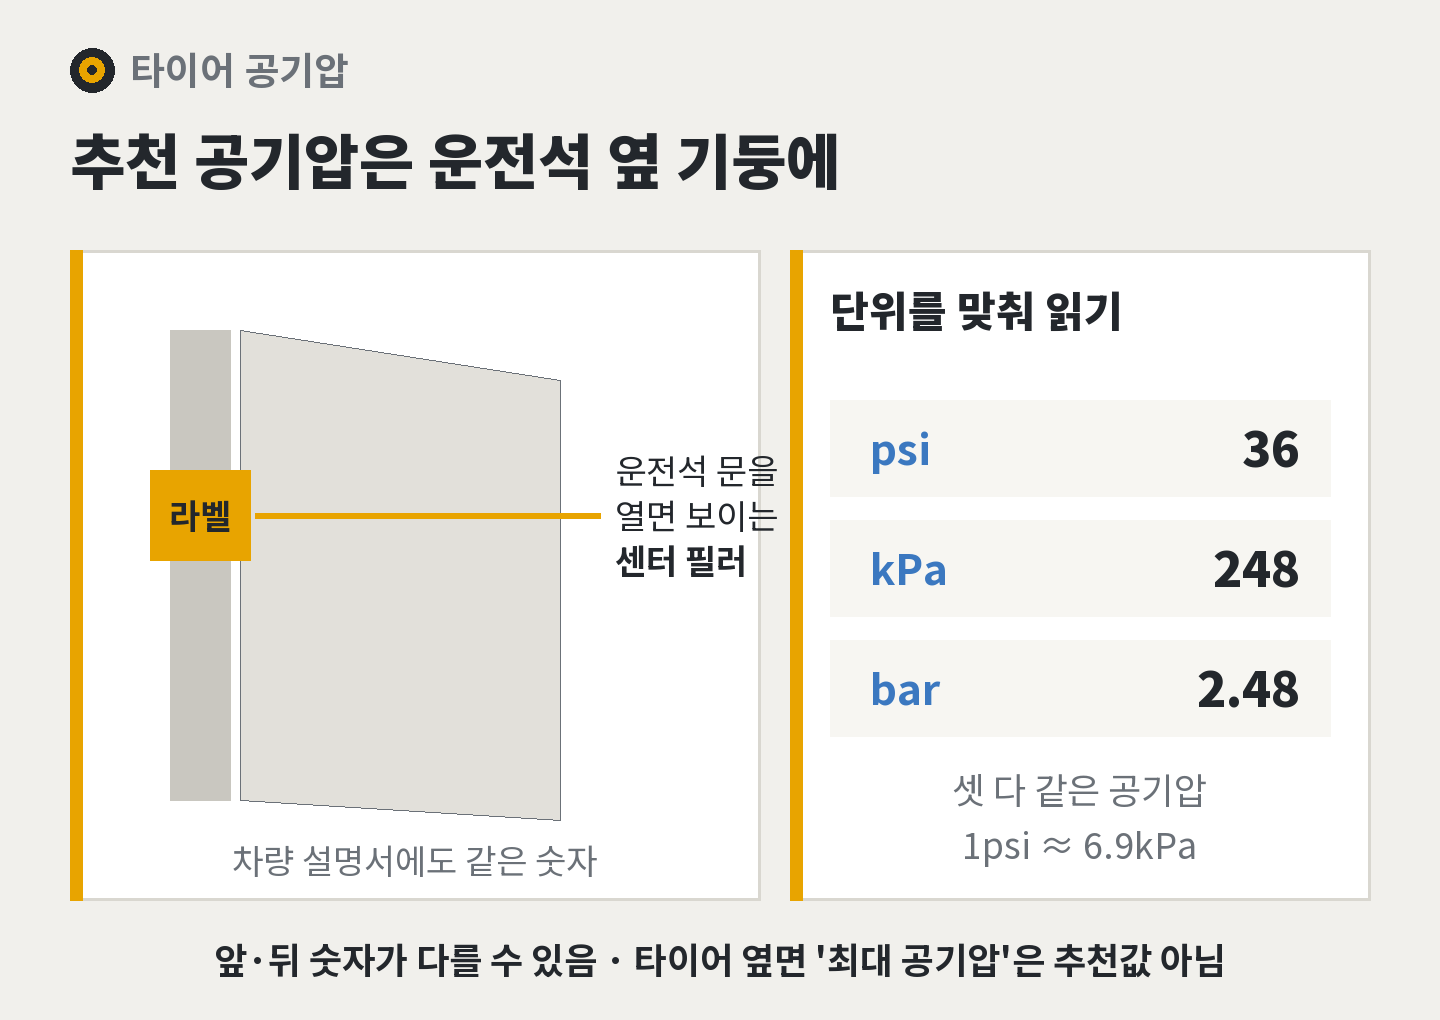
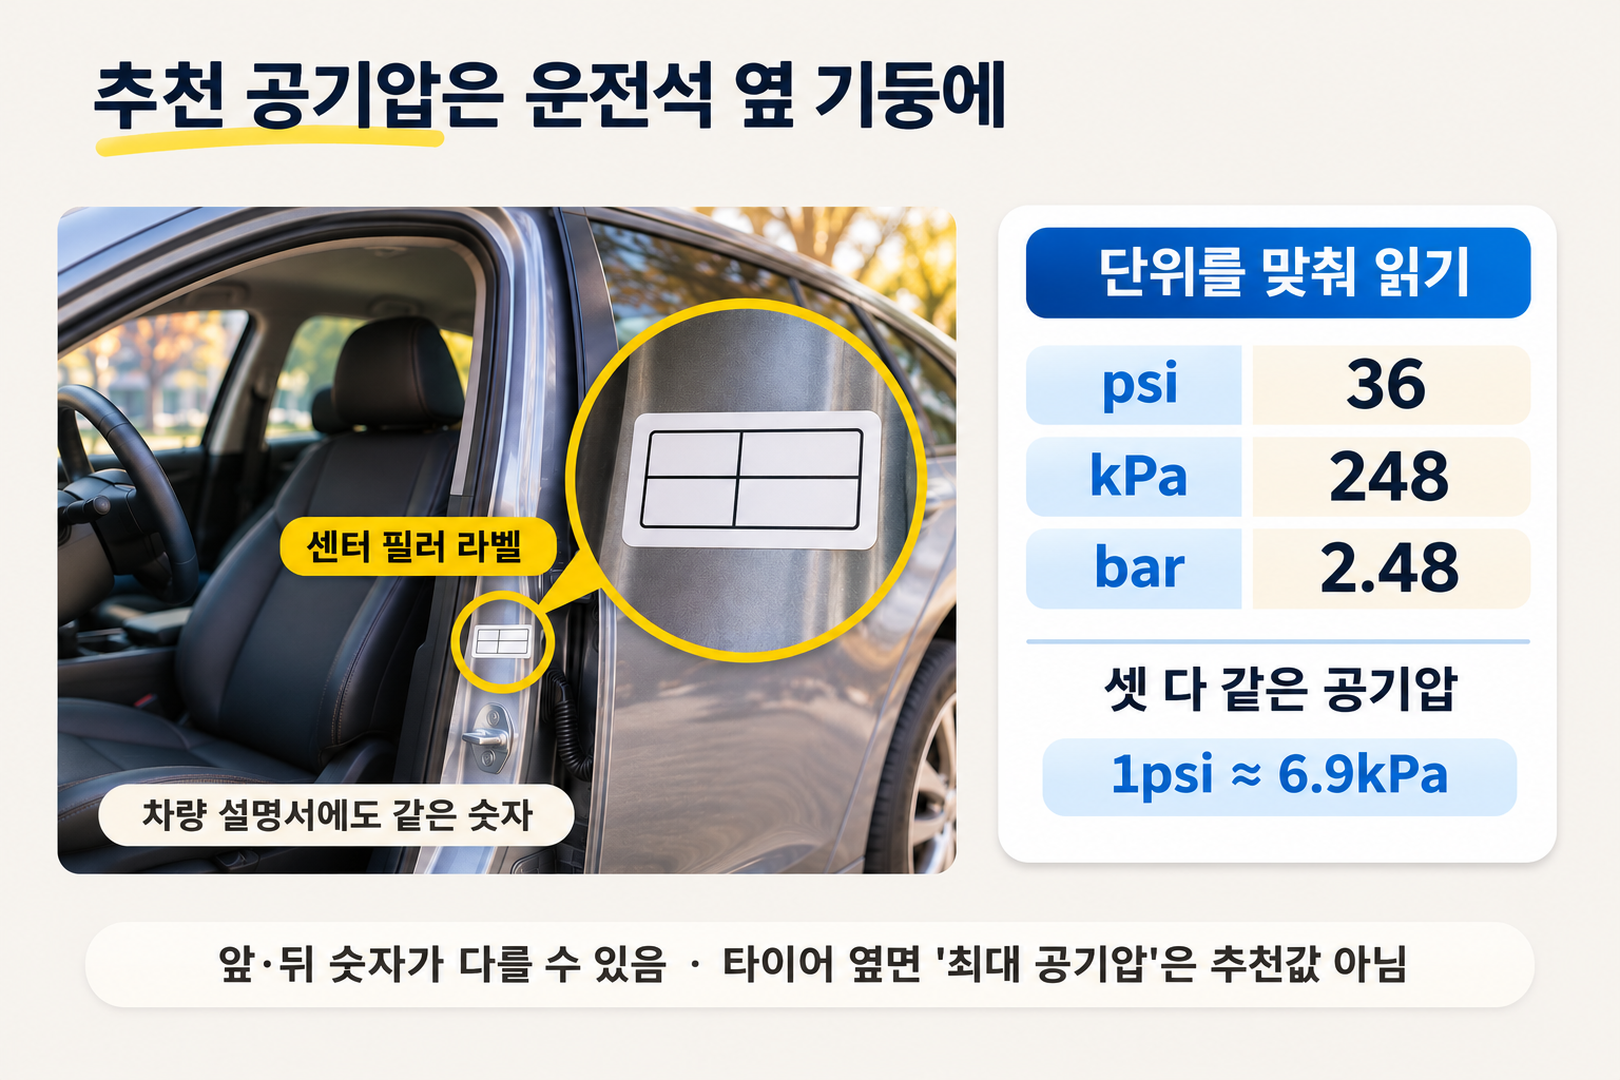
네이버 겨울 타이어 공기압 글 03 그림을 ChatGPT 실사풍 인포그래픽으로 교체

diff --git a/문서/네이버-코딩가이드/20261127_겨울-타이어-공기압/index.html b/문서/네이버-코딩가이드/20261127_겨울-타이어-공기압/index.html
@@ -13,7 +13,7 @@
 디자인: 아스팔트와 도로 표시 느낌 — 따뜻한 연회색 바탕(#f1f0ec)·짙은 숯색 글자(#23272c)·도로 노랑(#e8a400)·찬 기온 파랑(#3b78c0)·회색(#6b7178), 각진 흰 카드와 노란 띠, 왼쪽 위 타이어 아이콘 + '타이어 공기압'(번호 없음). h3 기호 ○, '한 줄로 말하면'만 짙은 노랑.
 - 01-타이틀.png (ChatGPT, 1:1) — 적용(서리 내린 앞바퀴·공기압 게이지·아침 햇살, 글자 정확, 로고·상표 없음, 첫 줄 약 88%라 95%로 줄이고 바깥은 살짝 키운 흐린 같은 그림으로 섞음 → 약 84%·세로 중심 약 48%, 원본 scratchpad/backup/tire-01-original.png. 거울 이음은 펜더·호스가 겹쳐 보여 쓰지 않음)
 - 02-기온과-공기압.png (AI, 가로) — 기온이 내려갈 때 36psi 타이어가 얼마나 내려가는지(계산 예시).
-- 03-적정-공기압-찾기.png (AI, 가로) — 운전석 옆 기둥 라벨 위치와 psi·kPa·bar 단위 맞추기.
+- 03-적정-공기압-찾기.png (ChatGPT 실사풍, 가로 1620×1080) — 운전석 옆 기둥 라벨 위치와 psi·kPa·bar 단위 맞추기. 사용자 요청으로 ChatGPT 실사풍 인포그래픽으로 바꿔 적용(글자 정확, 엠블럼·라벨 글자 없음, 1536×1024 → 1620×1080, 원본 scratchpad/backup/tire-03-original.png, AI 버전 tire-03-ai.png).
 - 04-식었을-때-잴-것.png (AI, 가로) — 차가울 때와 주행 직후의 차이, 뜨거울 때 맞추면 생기는 일.
 - 05-낮을-때-높을-때.png (AI, 가로) — 공기압이 낮을 때와 높을 때 생기는 문제.
 - 06-함께-보면-좋은-글.png (AI 배너)

diff --git a/AGENTS.md b/AGENTS.md
@@ -276,7 +276,7 @@
   - 이미지 6장: AI 02 기온과 공기압(가로 막대)·03 적정 공기압 찾기(라벨 위치 + 단위)·04 식었을 때 잴 것(두 칸)·05 낮을 때·높을 때(두 칸)·06 배너 — 따뜻한 연회색·숯색·도로 노랑·찬 파랑, 각진 카드와 노란 띠, 타이어 아이콘 '타이어 공기압'(번호 없음), 스크립트 scratchpad/tire.py. h3 기호 ○. ChatGPT 01 타이틀('겨울 타이어 공기압 / 얼마나 넣을까?')은 아래처럼 적용. 링크는 슈퍼 엘니뇨(네이버 · 수학·과학 · 11.27)·겨울 설악산(네이버 · 여행·취미·문화 · 11.24).
   - 같은 날 외부 검수 반영: 원리를 '부피가 줄어듦'에서 '부피가 거의 일정한 타이어 안에서 압력이 낮아짐'으로, TPMS 의무 2013.1.1 신규·2015.1.1 기존 모델·일부 제외, 계산 예시 조건(20℃ 36psi → -10℃ 약 30.8psi), 공기 넣는 때를 냉간 기준(3시간·1.6km)으로·데워졌으면 빼지 말고 식은 뒤 재확인, '1~2분 뒤 경고등 꺼짐' 삭제, 2psi 의견은 '제조사 기준 아님'. 매체명·링크와 본문 끝 참고 자료 목록은 사용자 규칙(본문에 출처 목록·언론사 인용 안 함)에 따라 넣지 않고 발행 메모에. **온도와 압력 설명은 '공기 부피가 줄어든다'가 아니라 '부피가 거의 일정한 용기 안에서 압력이 낮아진다'로 쓴다.**
   - 같은 날 이미지 검수 반영: 04 주행 직후 40~42psi·4~6psi·30~32psi를 '36psi 타이어 예시'로 표시. '1.6km 안쪽 저속 주행'의 '저속'과 05 제동 거리 문구 수정은 현대차 설명서 원문에 없는 조건·원문 표현이라 반영하지 않음. **설명서를 근거로 한 그림은 검수가 원문에 없는 조건을 더하라고 하면 원문대로 둔다.**
-  - ChatGPT 01 타이틀 적용(서리 내린 앞바퀴·공기압 게이지, 글자 정확, 첫 줄 약 88%라 95%로 줄여 흐린 같은 그림으로 섞음 → 약 84%, 원본 scratchpad/backup/tire-01-original.png). 이미지 6장 완료, 대기 중인 요청 없음. 남은 일은 사용자의 네이버 발행(링크 줄 교체)뿐이다.
+  - ChatGPT 01 타이틀 적용(서리 내린 앞바퀴·공기압 게이지, 글자 정확, 첫 줄 약 88%라 95%로 줄여 흐린 같은 그림으로 섞음 → 약 84%, 원본 scratchpad/backup/tire-01-original.png). 이어서 사용자 요청으로 03 적정 공기압 찾기를 ChatGPT 실사풍 인포그래픽(3:2 1620×1080, 문 연 운전석·센터 필러 라벨 돋보기·단위 카드)으로 바꿈(AI 버전 백업 scratchpad/backup/tire-03-ai.png). 이미지 6장 완료, 대기 중인 요청 없음. 남은 일은 사용자의 네이버 발행(링크 줄 교체)뿐이다.
 - 2026-11-27: `문서/네이버-코딩가이드/20261127_슈퍼엘니뇨-올겨울/index.html` 작성("슈퍼 엘니뇨란? 올겨울 날씨가 어떻게 달라질까", 카테고리 수학·과학). 오후 제안 1번(구글 '엘니뇨' 1천+, 폭설 우려 보도).
   - 근거: **기상청 보도자료 원문 두 건**(kma.go.kr 보도자료 첨부 hwpx를 curl로 받아 section XML의 hp:t를 읽음) — 3개월전망(11.23: 월별 확률, 평년 범위, 엘니뇨 5월 시작·12월 최성기·10월 +2.6℃·8~10월 +2.4℃, 동쪽 고기압성 순환, 찬 대륙고기압 일시 확장, 해기차, 수도권·강원 기상가뭄)과 겨울철 방재기상대책(11.26: 대설 안전안내문자 기준, 1시간 신적설). '슈퍼 엘니뇨'는 비공식 표현이라고 밝힘. 과거 엘니뇨 해 평균(+1.2℃·183%)은 보도에만 있어 쓰지 않음. **기상청 보도자료 첨부(hwpx)는 NeoboardProcess 다운로드 주소로 curl 받을 수 있다.**
   - 이미지 6장: AI 02 평소와 엘니뇨(가로)·03 한반도까지 네 단계(세로)·04 월별 확률(가로)·05 해기차(가로)·06 배너 — 연한 하늘빛·남색·바다 주황·찬 공기 파랑, 물결 아이콘 '엘니뇨와 올겨울'. h3 기호 ◈. ChatGPT 01 타이틀은 아래처럼 적용. 링크는 수능 위급재난문자(네이버 · 컴퓨터·IT · 11.18)·겨울 설악산(네이버 · 여행·취미·문화 · 11.24).
